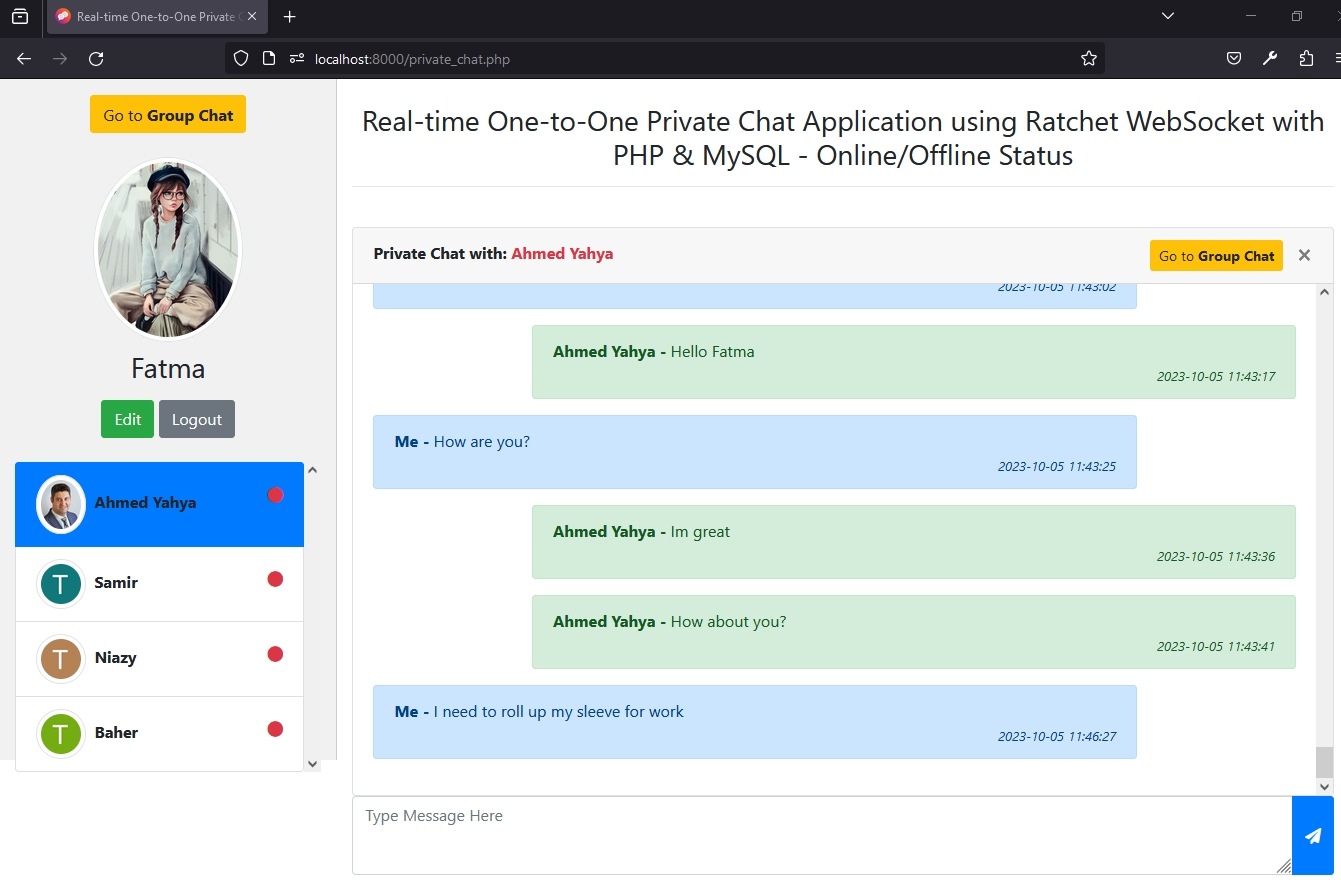
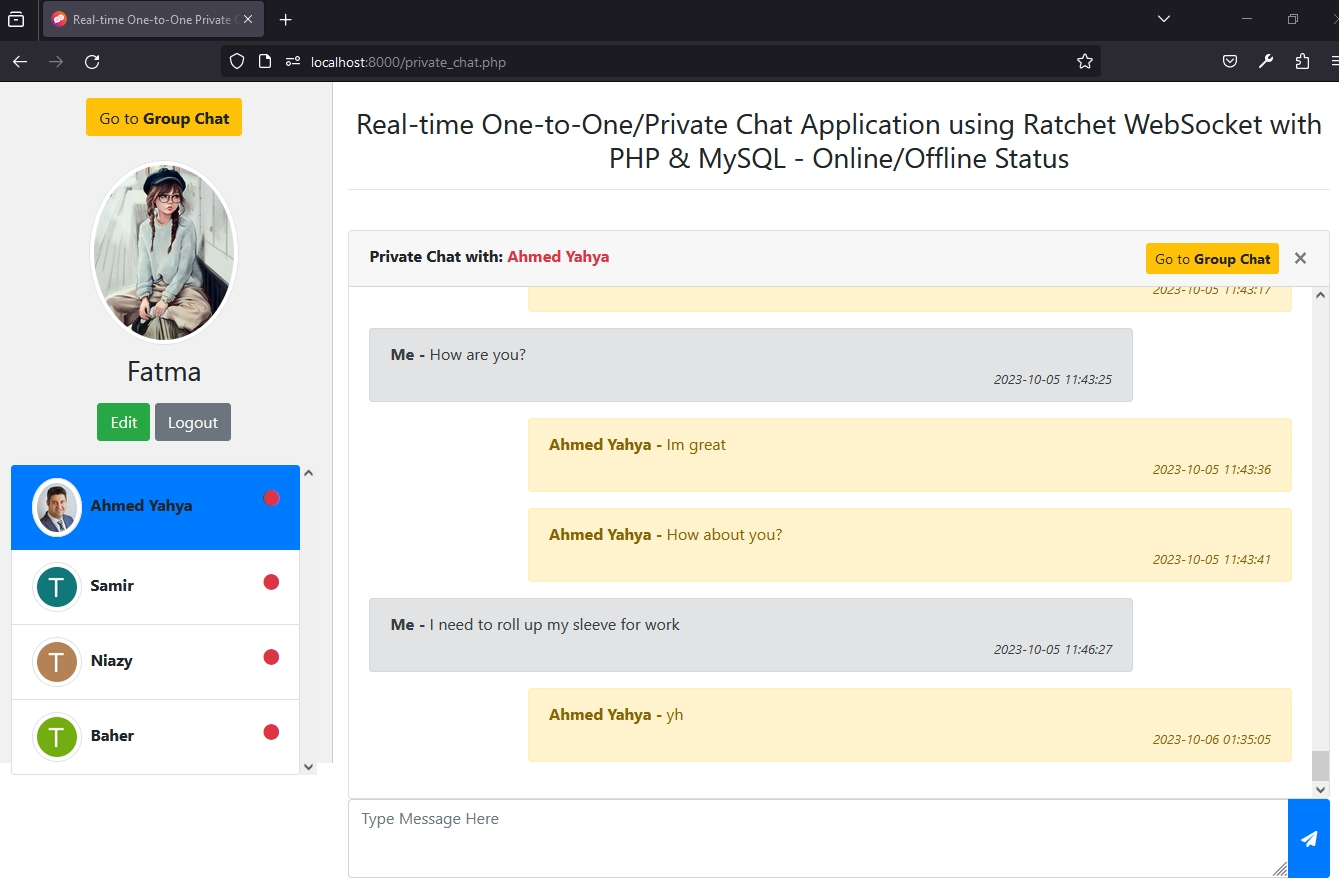
Updated project screenshot

diff --git a/private_chat.php b/private_chat.php
@@ -368,13 +368,13 @@ require('database/GroupChatMessageModel.php');
 								if (data[count].from_user_id == from_user_id) // If the Chat History message is sent by the authenticated/logged-in user to the selected user, show it on the left side of the chat area
 								{
 									row_class        = 'row justify-content-start';
-									background_class = 'alert-primary';
+									background_class = 'alert-secondary';
 									user_name        = 'Me';
 								}
 								else // If the Chat History essage is sent by the selected user to the authenticated/logged-in user, show it on the right side of the chat area
 								{
 									row_class = 'row justify-content-end';
-									background_class = 'alert-success';
+									background_class = 'alert-warning';
 									user_name = data[count].from_user_name;
 								}
 
